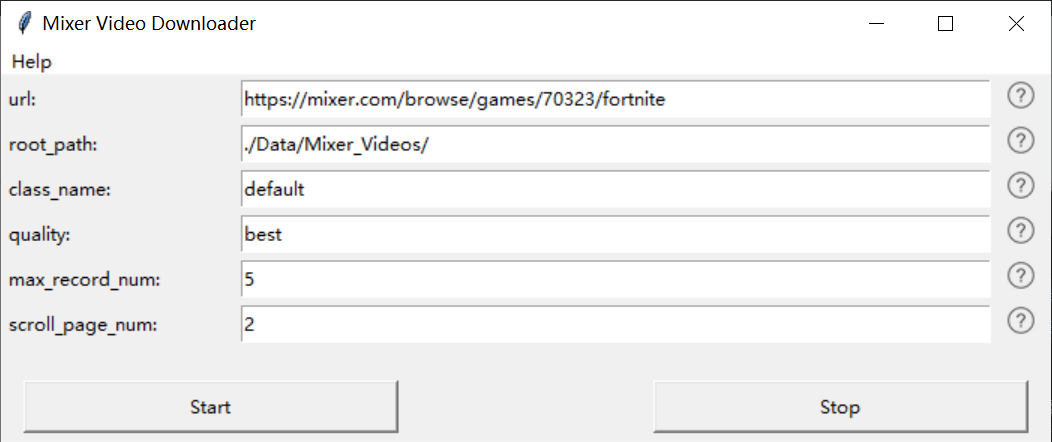
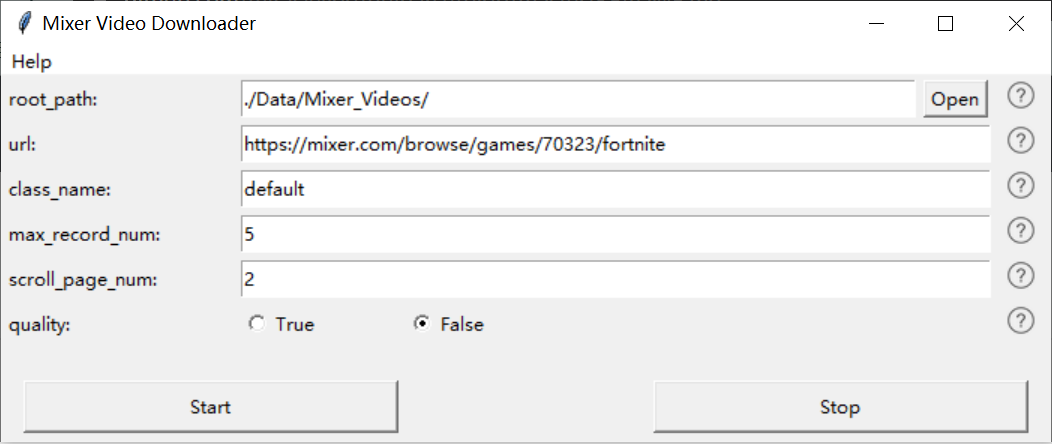
change screen cap

diff --git a/gui.py b/gui.py
@@ -12,6 +12,7 @@ parser.add_argument(
 parser.add_argument(
     '--root_path',
     type=str,
+    is_path=True,
     default="./Data/Mixer_Videos/",
     help='The root path of recorded videos.')
 
@@ -39,6 +40,11 @@ parser.add_argument(
     type=int,
     default='2',
     help='The number of pages you scrolls down.')
+
+parser.add_argument(
+    '--quality',
+    action='store_true',
+    help='The quality of recorded videos.')
 
 root = tk.Tk()
 #creation of an instance
